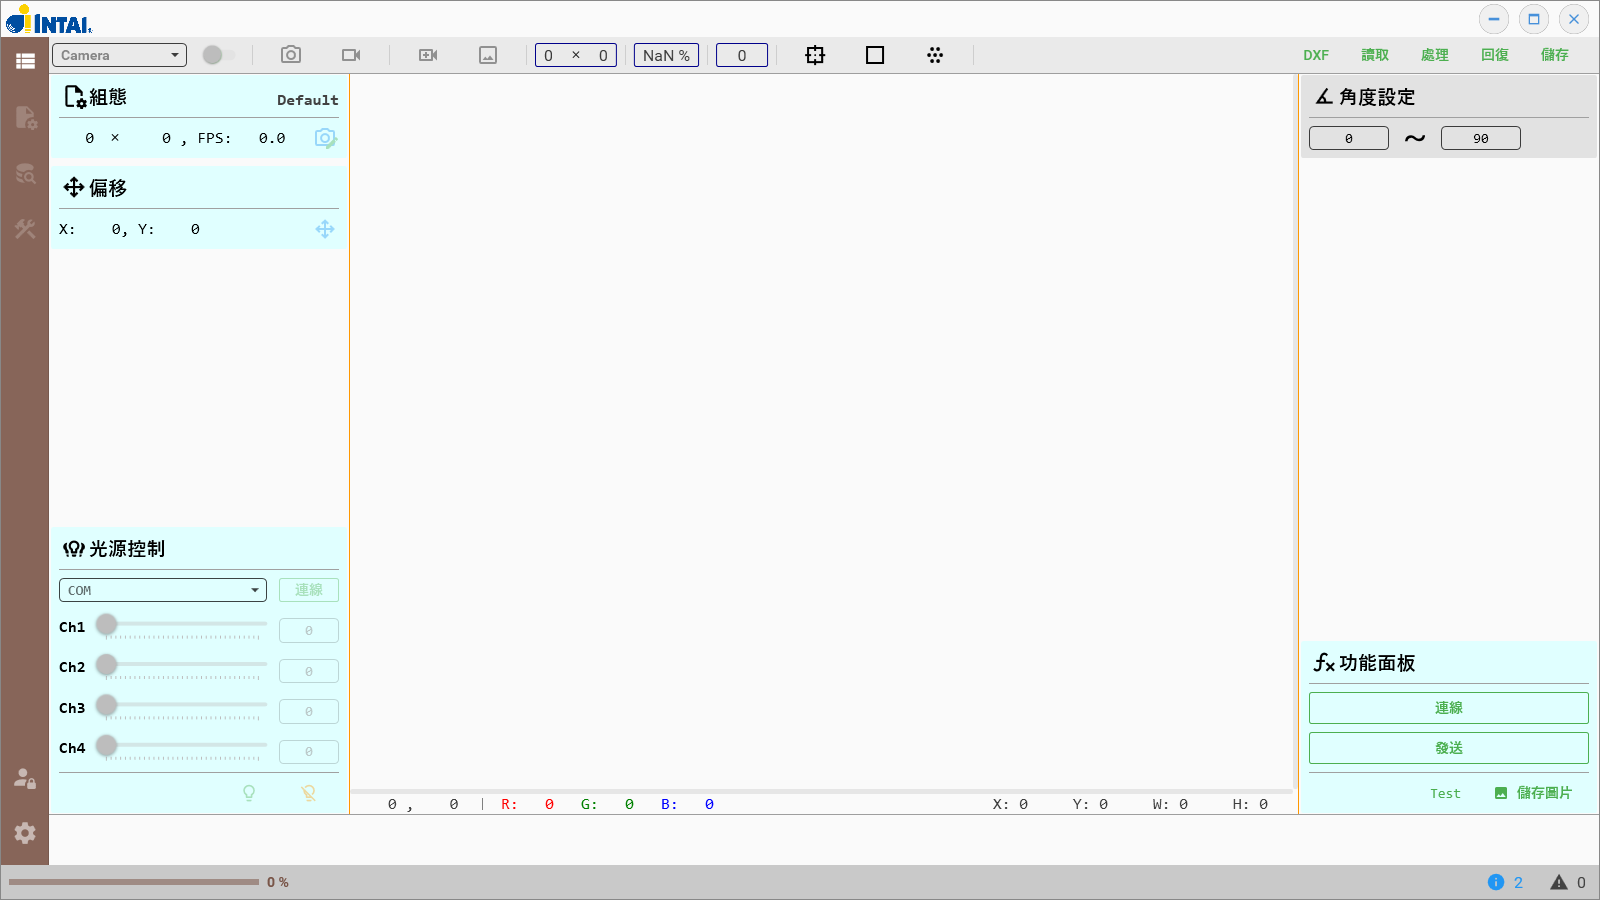
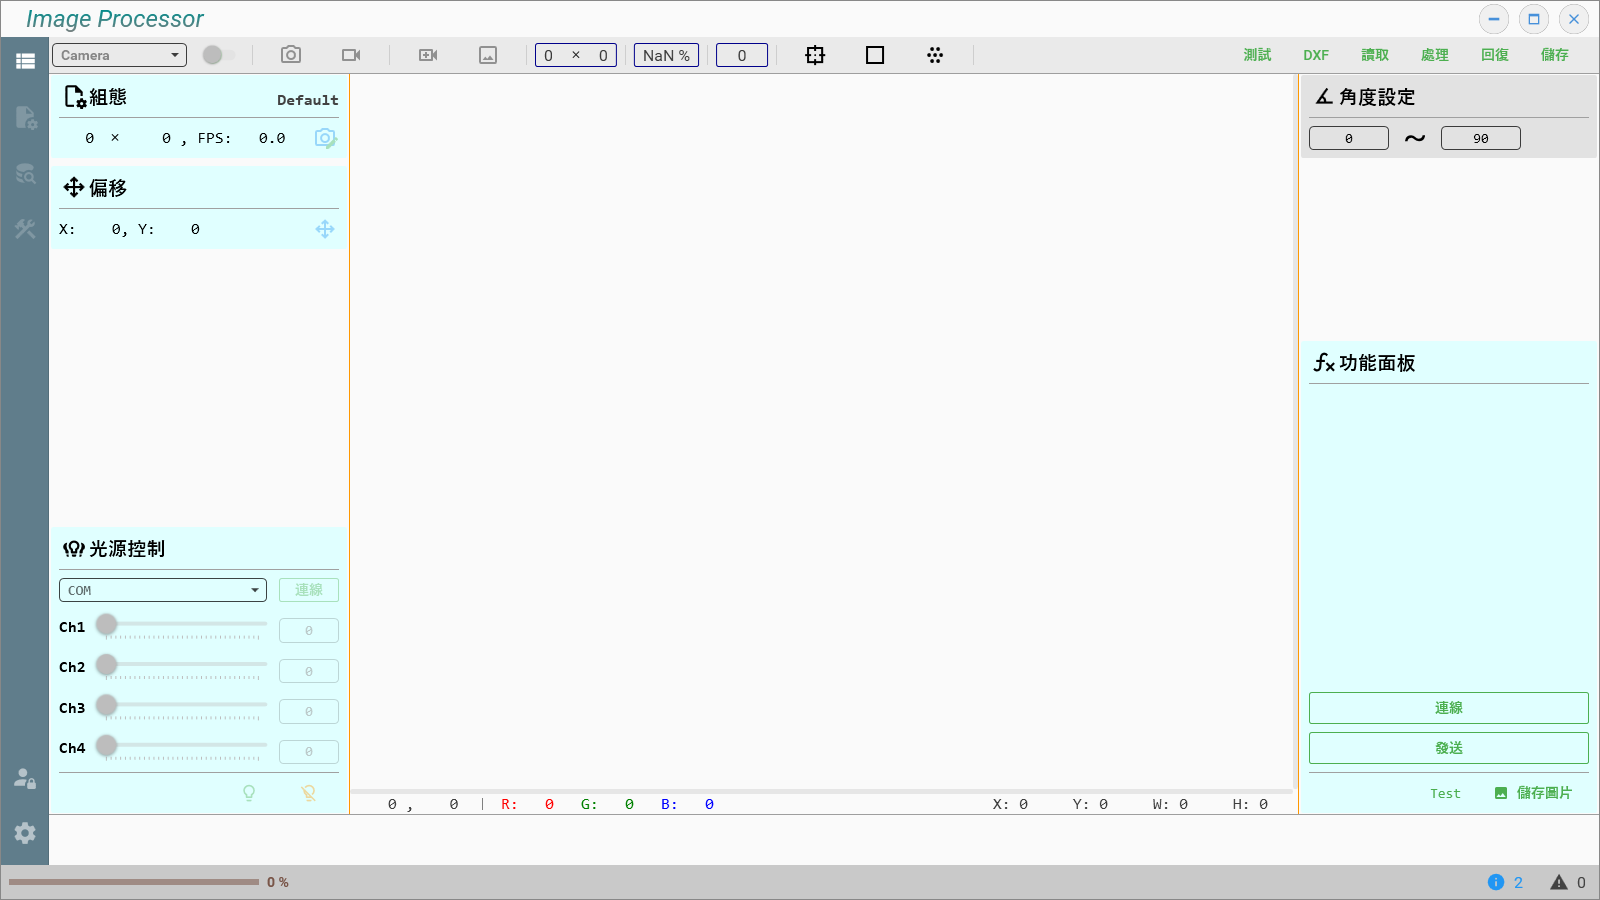
change title, image, color

Changed region(s): [[0.8125, 0.3733, 1.0, 0.7467], [0.0, 0.0, 0.125, 0.9644]]

diff --git a/MainWindow.xaml b/MainWindow.xaml
@@ -25,10 +25,12 @@
         Closing="Window_Closing"
         Closed="Window_Closed"
         Topmost="False"
-        Title="MainWindow" Width="1600" Height="900">
-    <!--<Window.DataContext>
+        Title="Image Processor" Width="1600" Height="900">
+    <!--
+    <Window.DataContext>
         <local:MainWindowVeiwMode></local:MainWindowVeiwMode>
-    </Window.DataContext>-->
+    </Window.DataContext>
+    -->
 
     <!--#region Resources -->
     <Window.Resources>
@@ -141,12 +143,10 @@
                     <ColumnDefinition Width="1*" />
                 </Grid.ColumnDefinitions>
 
-                <Image Grid.Column="0" HorizontalAlignment="Left" Height="30" Source="pack://application:,,,/intai.png" />
+                <!--<Image Grid.Column="0" HorizontalAlignment="Left" Height="30" Source="pack://application:,,,/intai.png" />-->
 
-                <!--
-                    <TextBlock Grid.Column="0" Text="{Binding Title, FallbackValue=Default, RelativeSource={RelativeSource AncestorType={x:Type Window}, Mode=FindAncestor}}" 
-                VerticalAlignment="Center" Style="{StaticResource MainWindowTitle}" />
-                -->
+                <TextBlock Grid.Column="0" Text="{Binding Title, FallbackValue=Default, RelativeSource={RelativeSource AncestorType={x:Type Window}, Mode=FindAncestor}}"
+                        VerticalAlignment="Center" Style="{StaticResource MainWindowTitle}" />
 
                 <StackPanel Grid.Column="1" Orientation="Horizontal" HorizontalAlignment="Right" VerticalAlignment="Center">
                     <!--Click="Minbtn_Click" -->
@@ -185,7 +185,7 @@
 
             <!--#region TabControl -->
             <TabControl x:Name="AppTabControl" Grid.Row="1" VerticalAlignment="Stretch" Style="{StaticResource MaterialDesignNavigatilRailTabControl}"
-                    materialDesign:ColorZoneAssist.Mode="Custom" materialDesign:ColorZoneAssist.Background="{StaticResource ColorBrownTransparent}"
+                    materialDesign:ColorZoneAssist.Mode="Custom" materialDesign:ColorZoneAssist.Background="{StaticResource ColorBlueGray}"
                     SelectedIndex="{Binding OnNavIndex, RelativeSource={RelativeSource AncestorType=Window, Mode=FindAncestor}, Mode=TwoWay, UpdateSourceTrigger=PropertyChanged}">
                 <!--#region Resources -->
                 <TabControl.Resources>

diff --git a/style/Appbar.xaml b/style/Appbar.xaml
@@ -22,8 +22,8 @@
         <Setter Property="Foreground">
             <Setter.Value>
                 <LinearGradientBrush EndPoint="0.5 1" StartPoint="0.5 0">
-                    <GradientStop Color="Gray"/>
-                    <GradientStop Color="WhiteSmoke" Offset="1"/>
+                    <GradientStop Color="DarkCyan"/>
+                    <GradientStop Color="Gray" Offset="1"/>
                 </LinearGradientBrush>
             </Setter.Value>
         </Setter>

diff --git a/class/ObservableCollections.cs b/class/ObservableCollections.cs
@@ -91,9 +91,6 @@ namespace ObservableCollections
 
     public sealed partial class ObservableQueue<T> : Queue<T>, INotifyCollectionChanged, INotifyPropertyChanged
     {
-        Queue<T> queue = new Queue<T>();
-        Stack<T> stack = new Stack<T>();
-
         public object SyncRoot { get; } = new object();
 
         #region 建構子
@@ -171,7 +168,6 @@ namespace ObservableCollections
             CollectionChanged?.Invoke(this, new NotifyCollectionChangedEventArgs(NotifyCollectionChangedAction.Remove, item, changedIndex));
             OnPropertyChanged(nameof(Count));
         }
-
 
         private void OnPropertyChanged([CallerMemberName] string propertyName = null)
         {

diff --git a/README.md b/README.md
@@ -1,6 +1,6 @@
 
 
-# App for Unit testing a new algorithm
+# App for unit testing a new algorithm
 
 * Retrieve image from camera 
 * Load image from local drive
